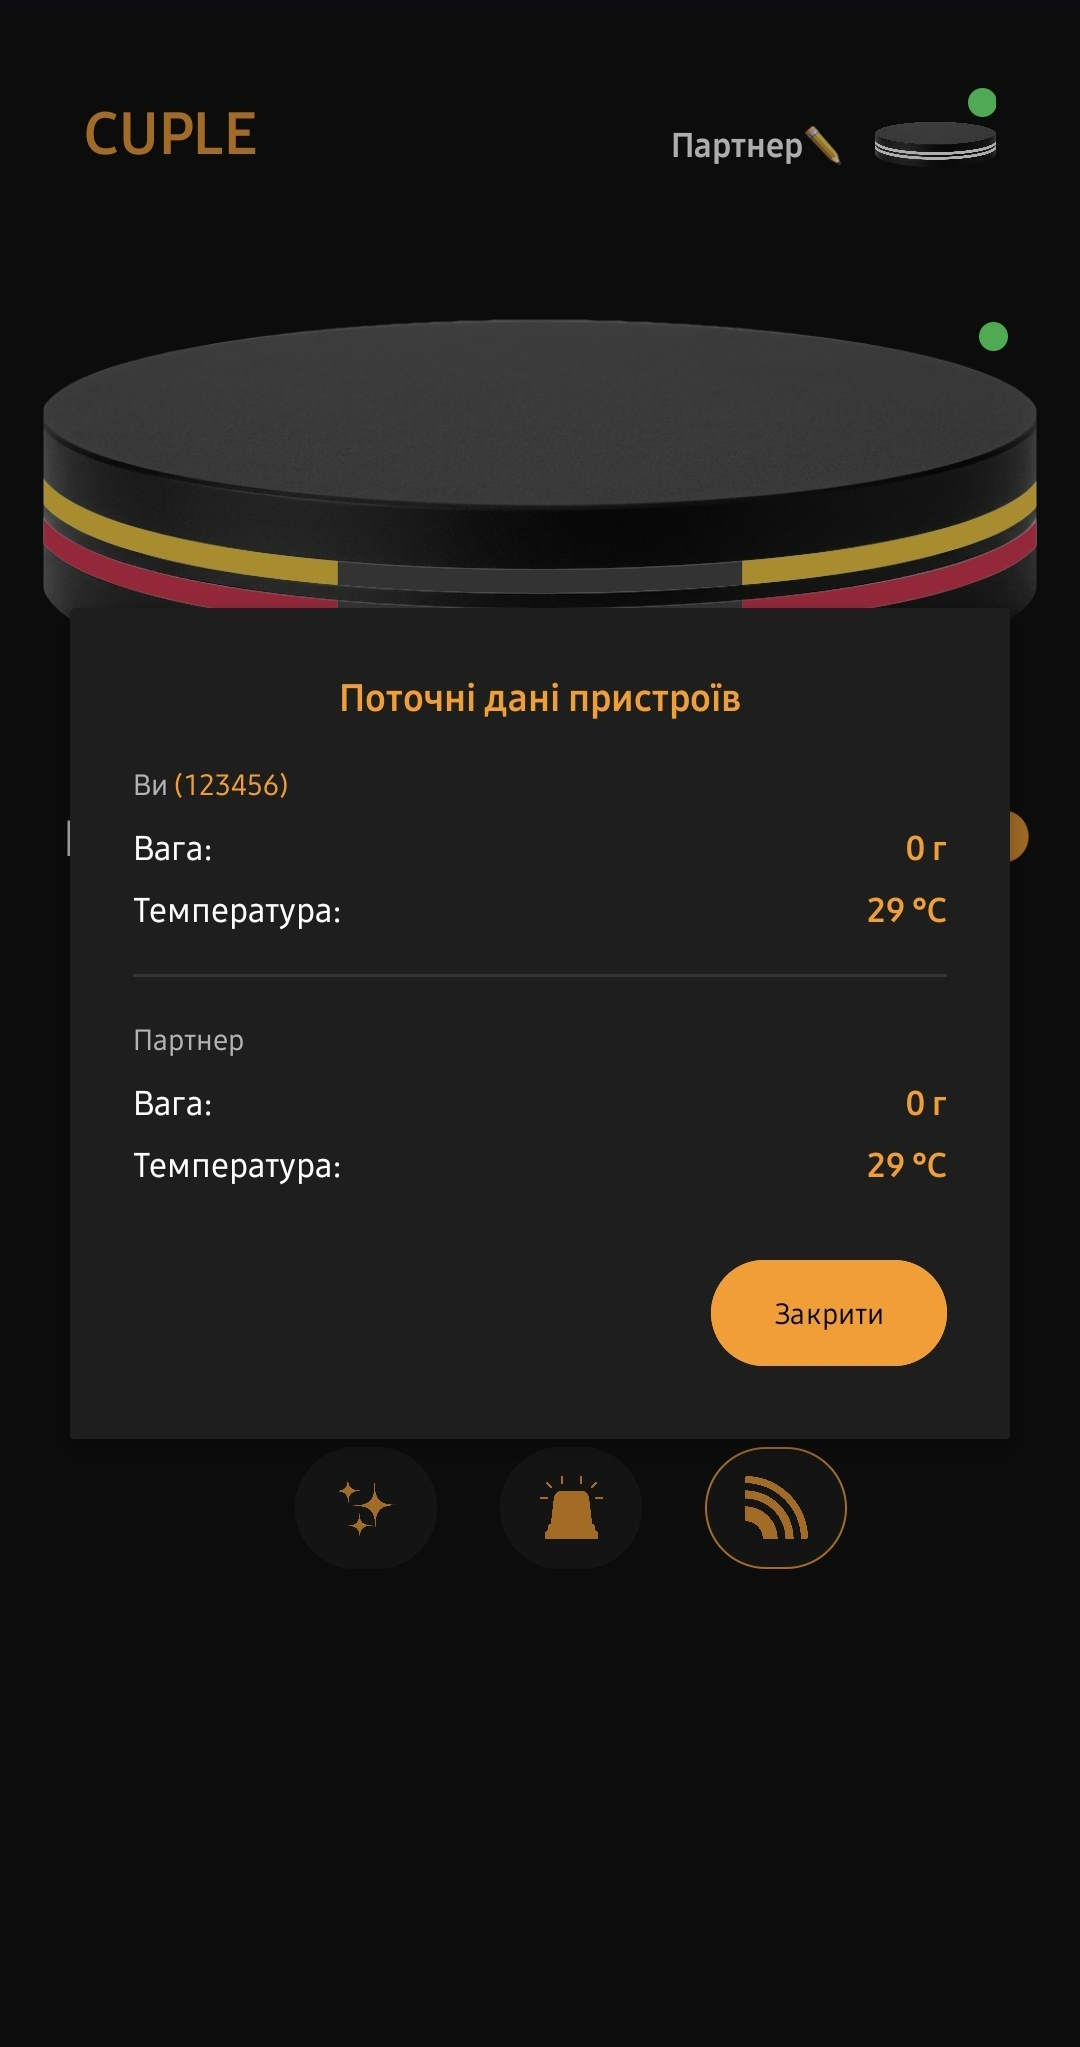
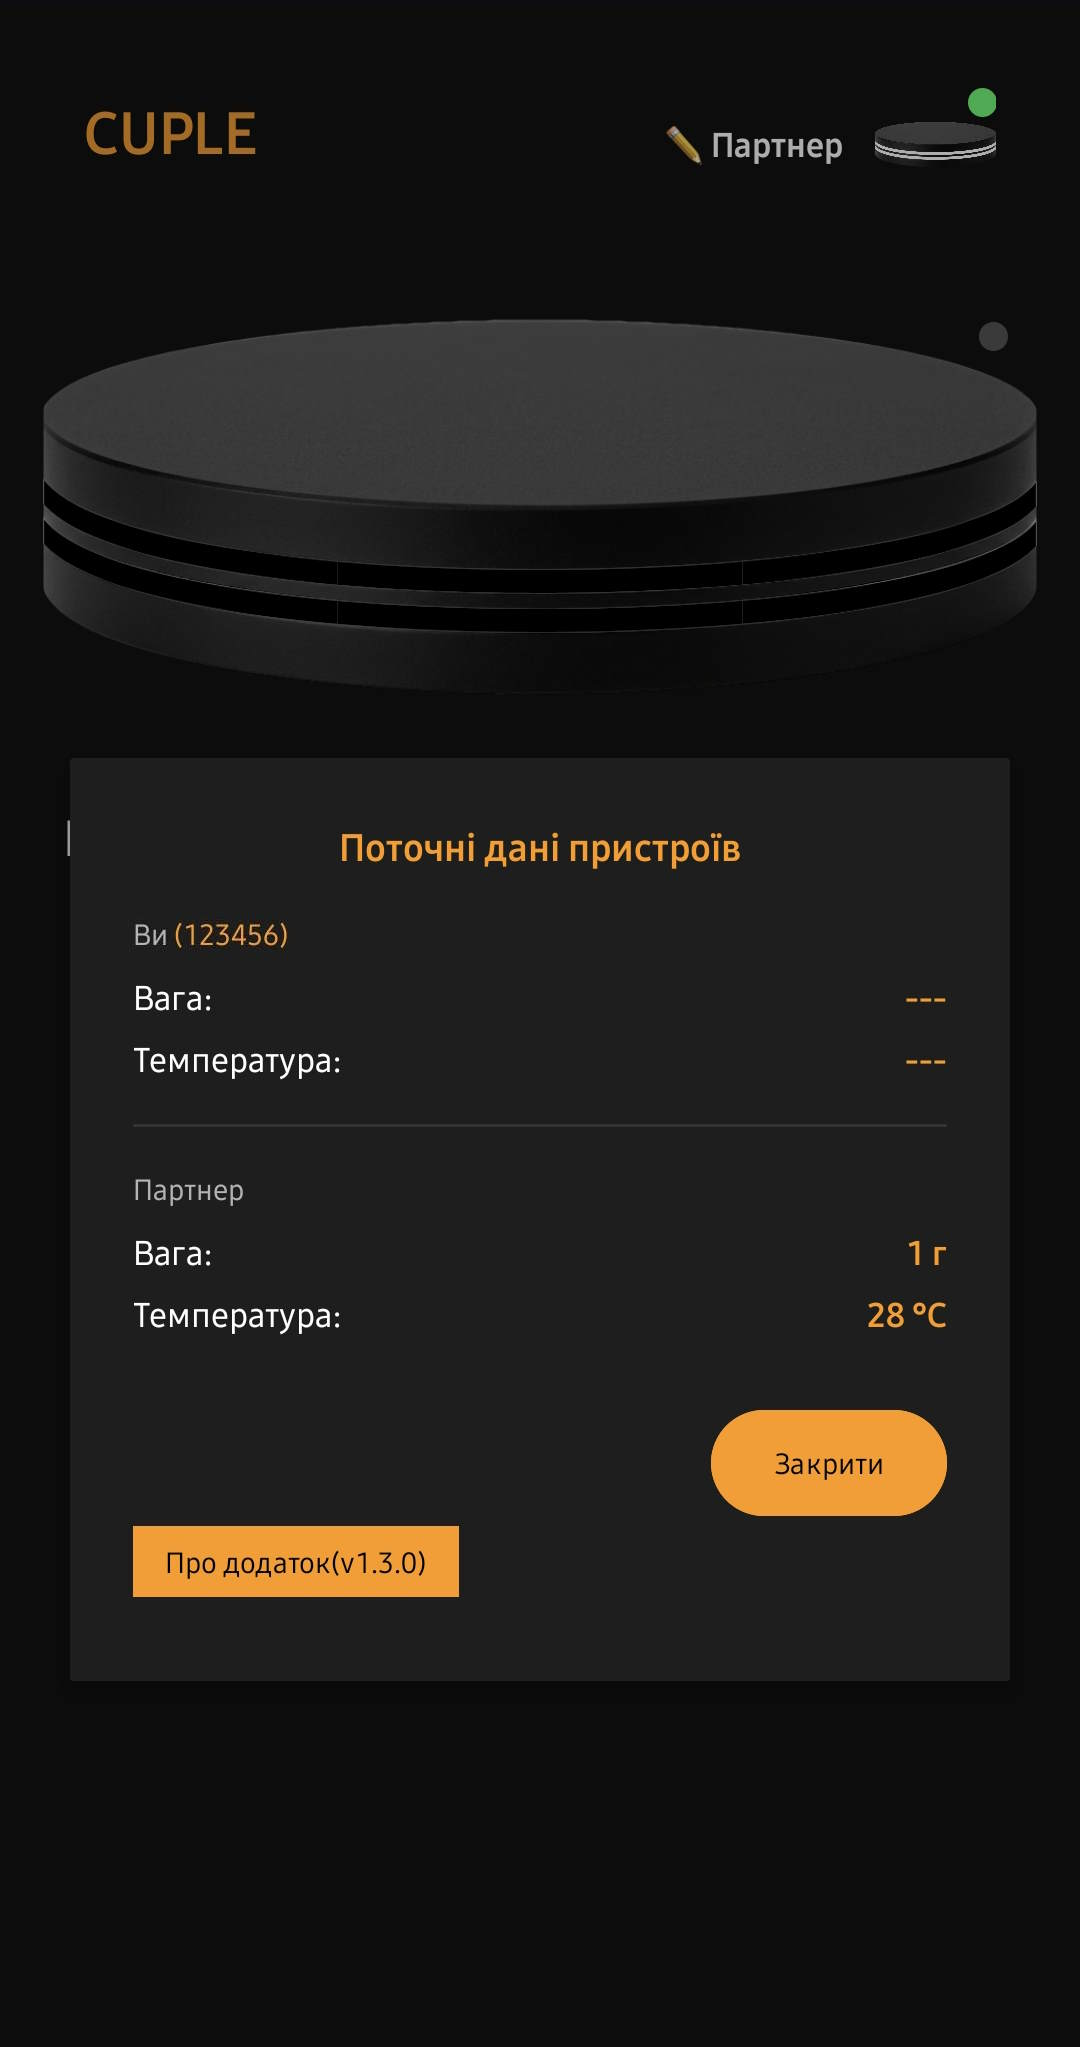
Update image and desc

diff --git a/index.html b/index.html
@@ -72,7 +72,7 @@
         <div class="screenshot-card">
             <img src="styles/images/details.jpg" alt="Детальна інформація">
             <h3>Деталі підставок</h3>
-            <p>Перегляд точної інформаціїпро ваші підставки. Просто затисніть логотип <b>CUPLE</b></p>
+            <p>Перегляд точної інформаціїпро ваші підставки. Просто натисніть на логотип <b>CUPLE</b>. Тут можна відв’язати підставку (кнопка <b>"Про додаток"</b>)</p>
         </div>
     </div>
 
